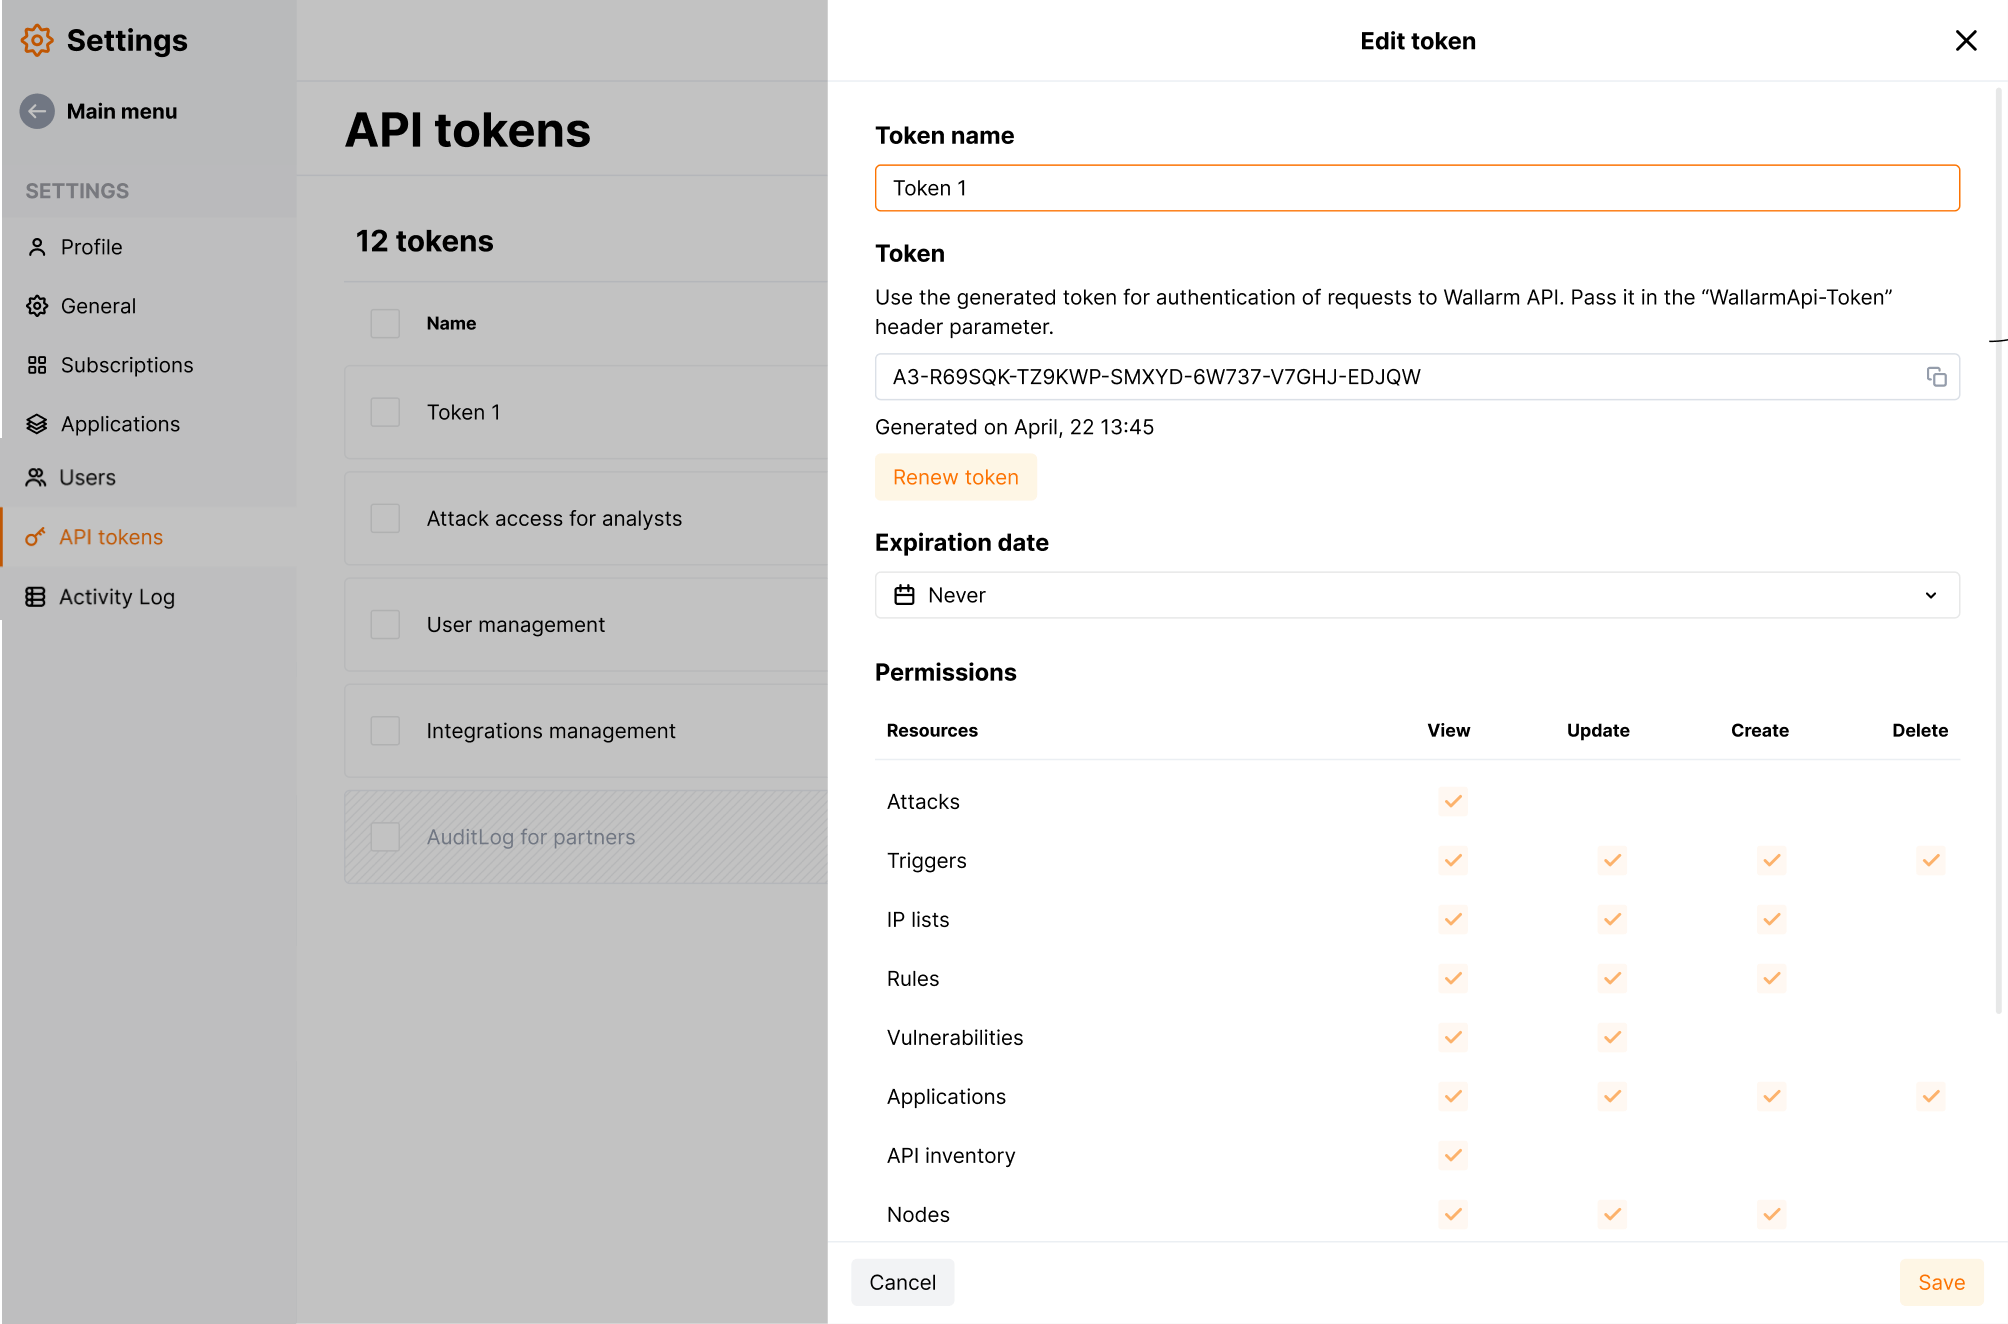
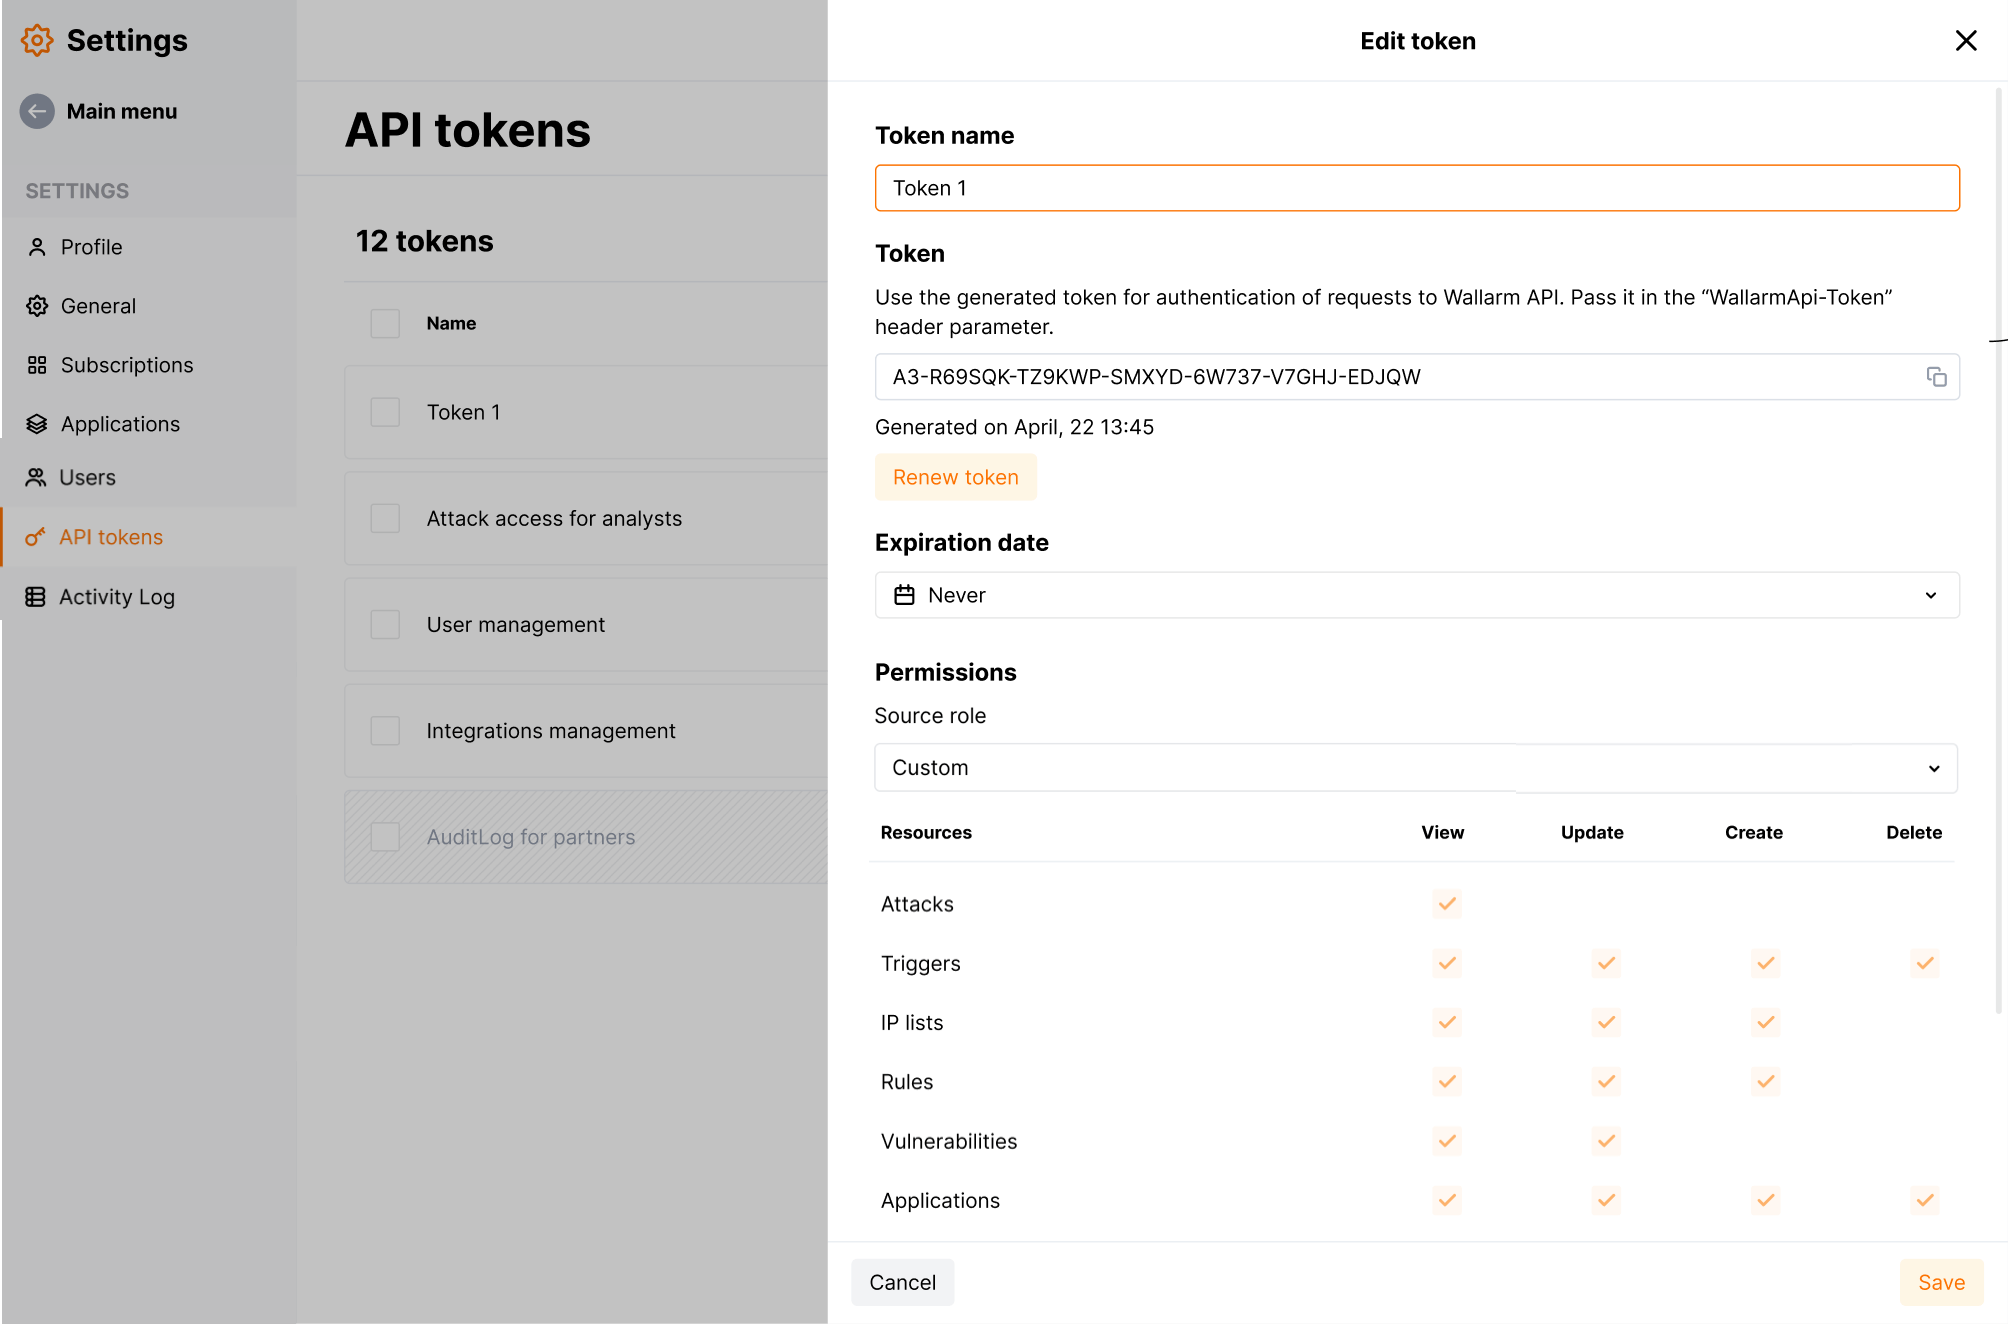
DOCS-2081 Token permissions from role

diff --git a/docs/latest/user-guides/settings/api-tokens.md b/docs/latest/user-guides/settings/api-tokens.md
@@ -9,11 +9,11 @@ This section is available for the users of any role.
 
 ## Configuring tokens
 
-**[All users][user-roles-article]** can create own tokens and use them (which means, view token value and include it into API request to authenticate it). For each own token you can set permissions, but not wider than the ones your user has. Optionally, you can set expiration date for the token - if set, the token will be disabled after that date. Also, you can disable/enable your tokens manually.
+Users of **[all roles][user-roles-article]** (besides **Read Only**) can create own tokens and use them (which means, view token value and include it into API request to authenticate it). For each own token you can set permissions, but not wider than the ones your user has. Optionally, you can set expiration date for the token - if set, the token will be disabled after that date. Also, you can disable/enable your tokens manually.
 
 You can renew the token value at any moment.
 
-**Administrators** / **Global Administrators** can view and manage all tokens in the company account. Besides private tokens, they can create shared ones, that can be viewed/used by other administrators.
+**Administrators** / **Global Administrators** can view and manage all tokens in the company account. Besides private tokens, they can create shared ones, that can be viewed/used by other administrators. When specifying permissions for the tokens, they can select to take these permissions from the selected role.
 
 !!! info "Token privacy"
     No other users (even administrators) can use your private tokens (which means, view or copy token value). Besides, non-administrators will not even see your tokens.
